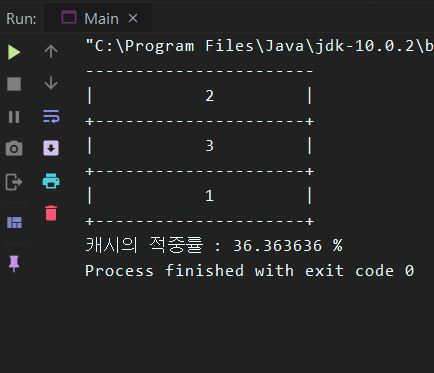
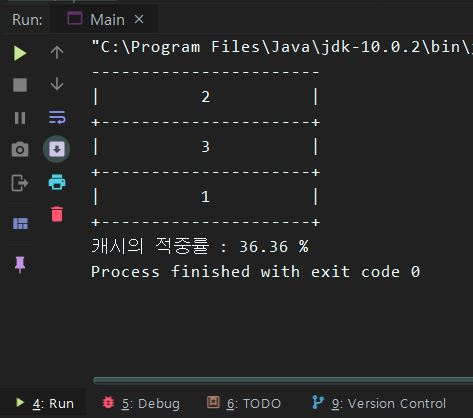
rebuild

diff --git a/src/main/java/LRU/Cache.java b/src/main/java/LRU/Cache.java
@@ -58,7 +58,7 @@ public class Cache
 
     public void printHitRatio(int blockSize)
     {
-        System.out.printf("캐시의 적중률 : %f %%", getHitRatio(blockSize));
+        System.out.printf("캐시의 적중률 : %.2f %%", getHitRatio(blockSize));
     }
 
     /**
